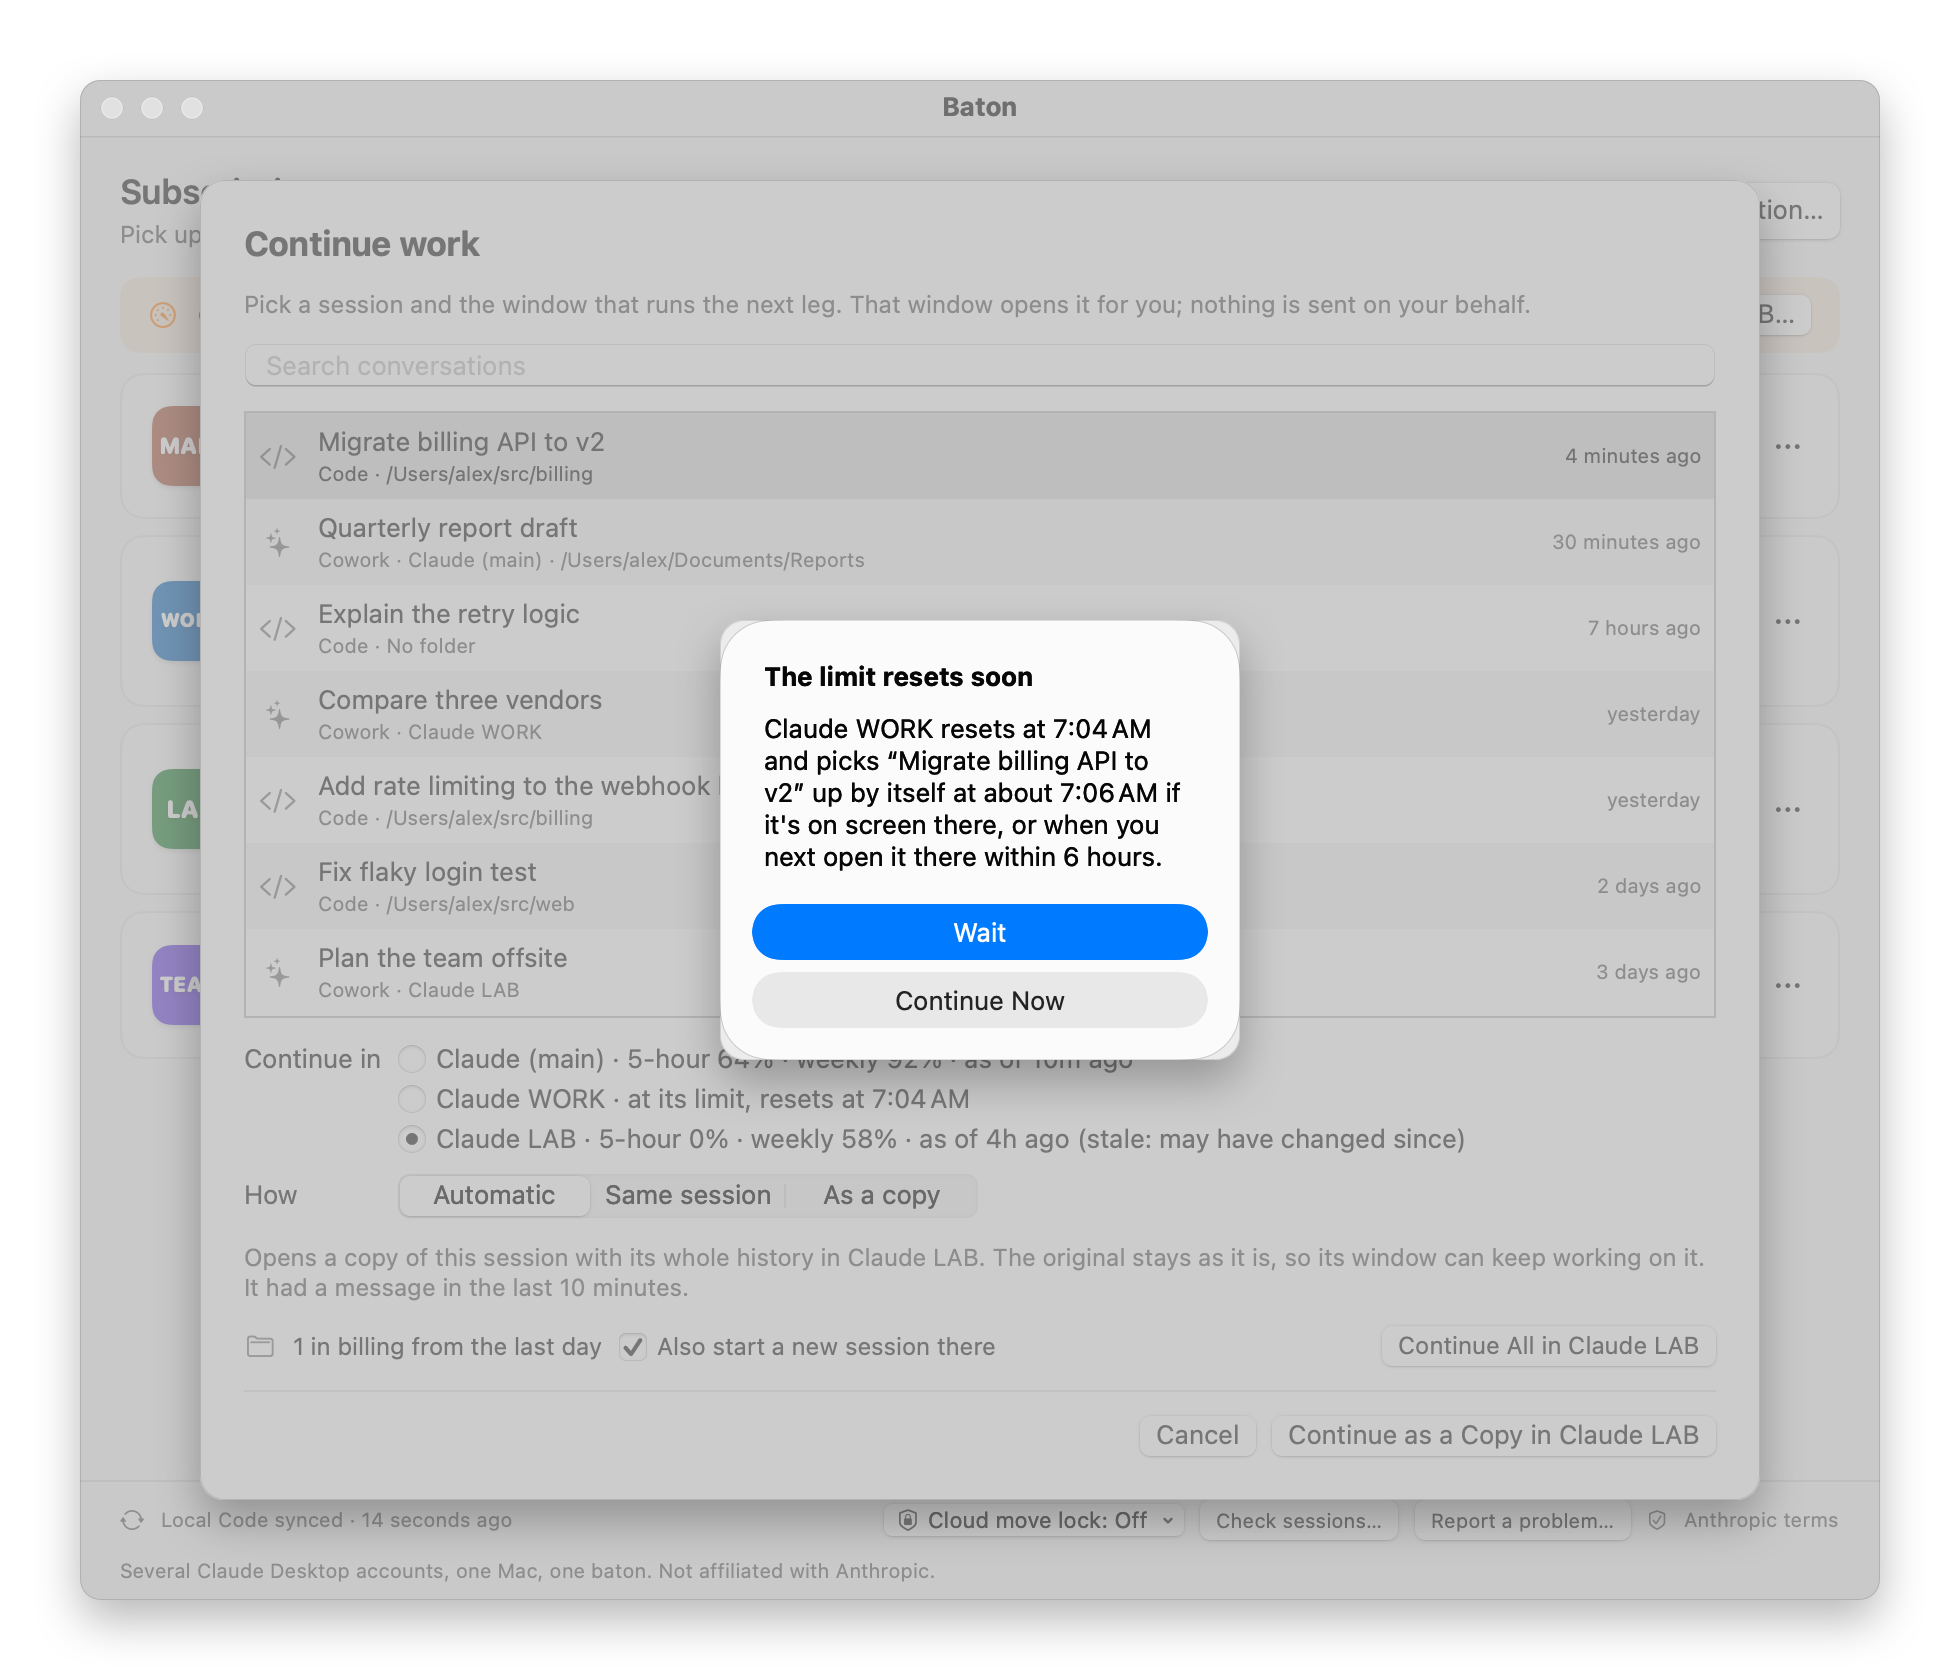
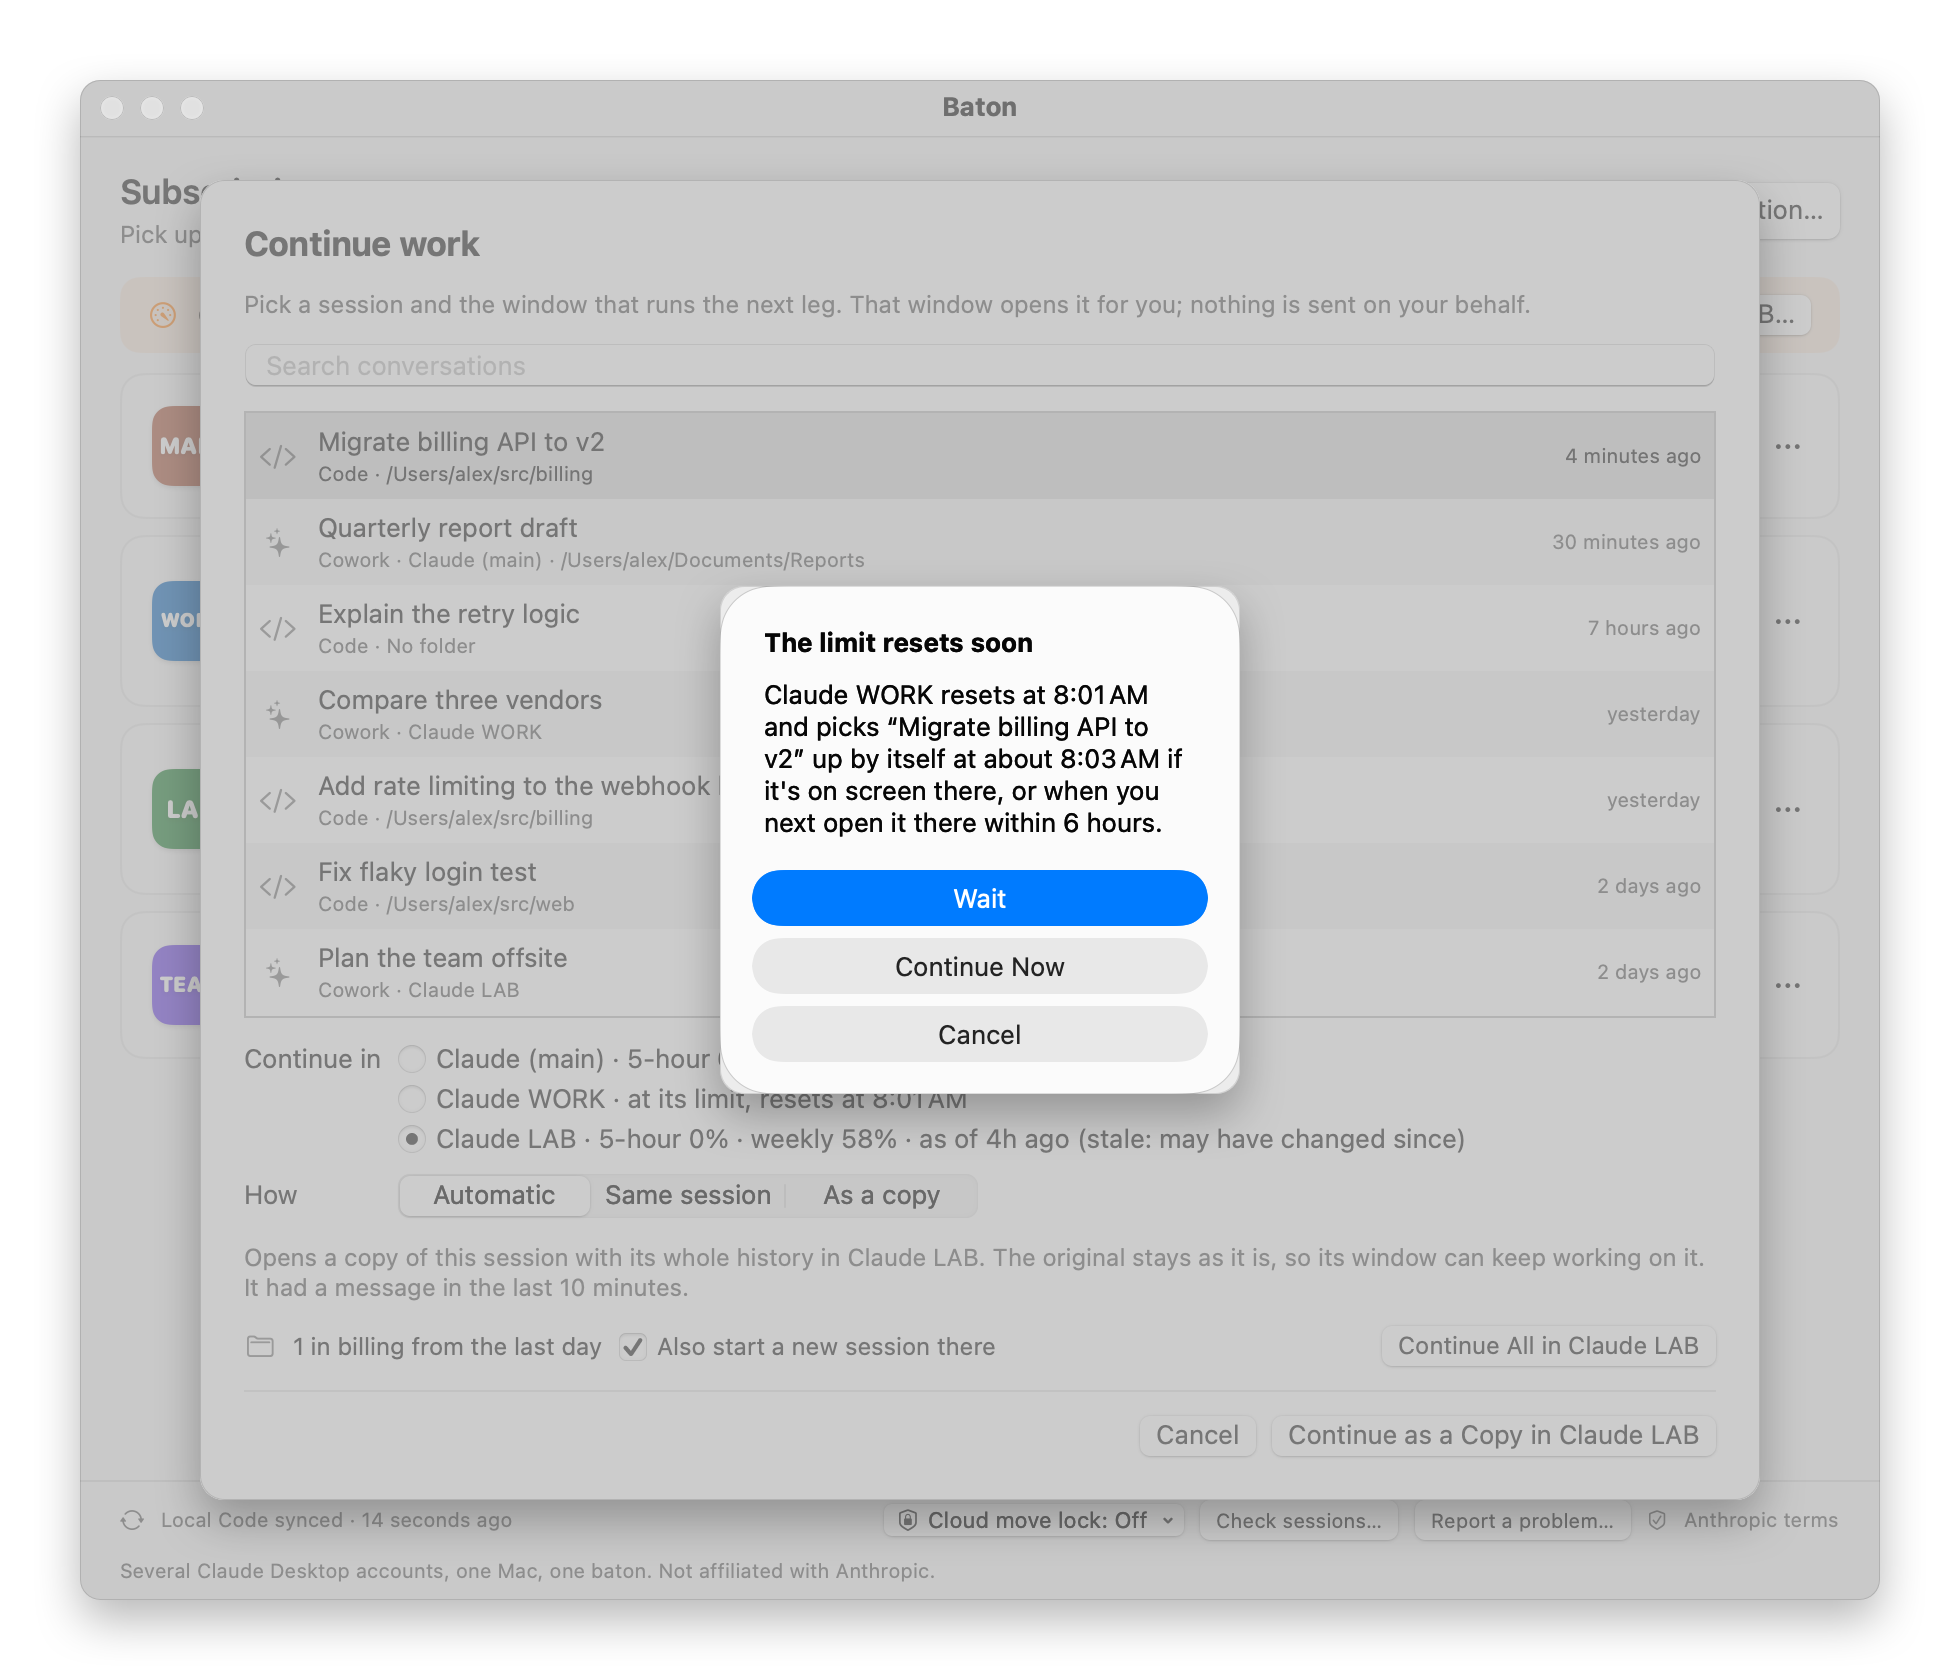
Continue sheet: the offer to wait has a Cancel, and Esc goes back to the sheet
Both buttons of "The limit resets soon" acted: Wait closed the sheet and Continue Now started the handover, and with no
cancel role Esc did nothing. Cancel goes back to the sheet to pick another window or session. continue-wait.png redrawn.

Changed region(s): [[0.3423, 0.3405, 0.6536, 0.681]]

diff --git a/Sources/BatonApp/ContinueWorkSheet.swift b/Sources/BatonApp/ContinueWorkSheet.swift
@@ -310,6 +310,8 @@ struct ContinueWorkSheet: View {
                 form.offer = nil
                 if form.offerForAll { goAll(now: true) } else { go(now: true) }
             }
+            // Back to the sheet, to choose another window or session; Esc does the same.
+            Button("Cancel", role: .cancel) { form.offer = nil }
         } message: { offer in
             Text(offer.message())
         }

diff --git a/README.md b/README.md
@@ -155,10 +155,10 @@ Each row shows the five-hour and weekly usage that Claude Desktop records for th
 
 A window counts as free again when its reset time passes, when a newer sample is below the limit, or when Claude answers a request sent in one of its sessions at least a minute after the limit (shown as *Claude answered since*, because extra usage may be what paid for it). An estimate never frees a window. Once a window that was at its limit has stayed free for a minute, Baton says it has room again, in its own window and, if you allow it, as a macOS notification. macOS asks about notifications once; if you decline, the notice stays in Baton's window.
 
-**Auto-continue.** Claude Desktop can continue a session by itself once its limit resets. When you continue such a session in another window, Baton turns off Auto-continue for that one session in the window it left, so the session is not worked on in two windows. It changes only that session's `optedIn` value in the window's `claude_desktop_config.json`, only while that window is closed (at once if it is; otherwise as soon as it closes while the Baton app runs, or when it is next opened from Baton), and after a dated backup. `baton doctor` lists what Baton turned off; to turn it back on, tick **Auto-continue when limits reset** on that session's limit message in Claude. When the window a session came from resets within 15 minutes and would continue it by itself, **Continue work…** and `baton continue` offer to wait instead.
+**Auto-continue.** Claude Desktop can continue a session by itself once its limit resets. When you continue such a session in another window, Baton turns off Auto-continue for that one session in the window it left, so the session is not worked on in two windows. It changes only that session's `optedIn` value in the window's `claude_desktop_config.json`, only while that window is closed (at once if it is; otherwise as soon as it closes while the Baton app runs, or when it is next opened from Baton), and after a dated backup. `baton doctor` lists what Baton turned off; to turn it back on, tick **Auto-continue when limits reset** on that session's limit message in Claude. When the window a session came from resets within 15 minutes and would continue it by itself, **Continue work…** and `baton continue` offer to wait instead; in the app, Cancel or Esc goes back to the sheet to choose another window or session.
 
 <p align="center">
-  <img src="docs/images/continue-wait.png" width="820" alt="The limit resets soon: Claude WORK resets in a few minutes and picks the session up by itself, with the buttons Wait and Continue Now over the Continue work sheet">
+  <img src="docs/images/continue-wait.png" width="820" alt="The limit resets soon: Claude WORK resets in a few minutes and picks the session up by itself, with the buttons Wait, Continue Now and Cancel over the Continue work sheet">
 </p>
 
 ## What follows and what stays

diff --git a/CHANGELOG.md b/CHANGELOG.md
@@ -43,7 +43,7 @@ Baton now covers local work only: local Claude Code sessions and Cowork tasks fo
 - A reset Claude reports early frees the window at once. So does a reply Claude gives in that window to a request sent at least a minute after the limit, shown as "Claude answered since", since extra usage may be what paid for it; a reply to a request Claude admitted before the limit doesn't count, and an estimate never frees a window
 - A window that has stayed free for a minute after its limit is announced as having room again, in Baton's window and, if you allow it, as a macOS notification; macOS asks once, the first time, and that is the only permission Baton may ask for
 - When a session continues elsewhere, Baton turns off Claude's Auto-continue when limits reset for it in the window it left, if that window is closed, and otherwise once that window closes: at once while the Baton app runs, or when that window is next opened from Baton. `baton doctor` lists what Baton turned off
-- When the window a session came from picks it up by itself within minutes, **Continue work…** and `baton continue` offer to wait; **Continue All** and `baton continue --folder` leave only those sessions there, name them, and continue the rest (with `--new` or **Also start a new session there**, the new session starts even when all of them are left there); `baton continue --folder` exits with 3 only when nothing continued
+- When the window a session came from picks it up by itself within minutes, **Continue work…** and `baton continue` offer to wait (Cancel or Esc goes back to the sheet); **Continue All** and `baton continue --folder` leave only those sessions there, name them, and continue the rest (with `--new` or **Also start a new session there**, the new session starts even when all of them are left there); `baton continue --folder` exits with 3 only when nothing continued
 
 ### Sharing between accounts
 
